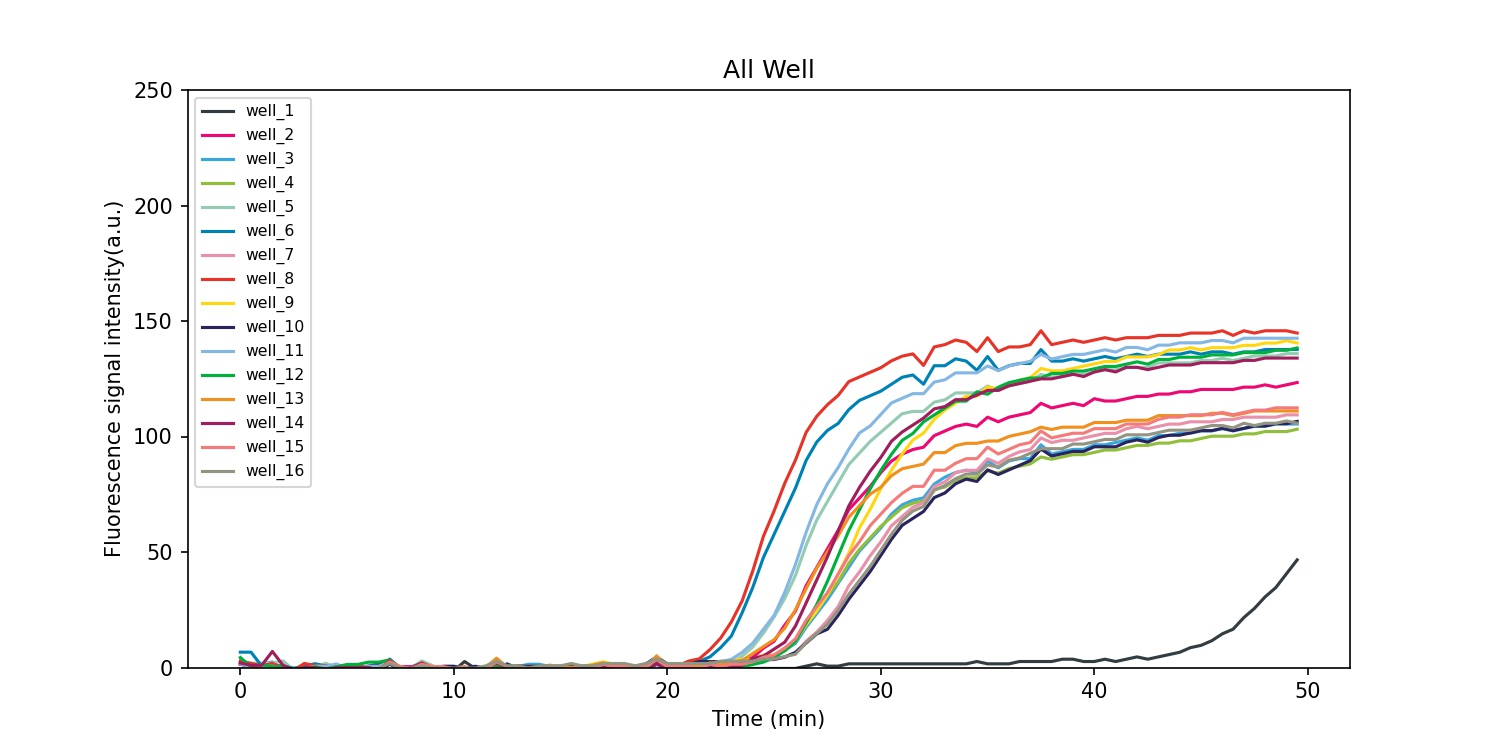
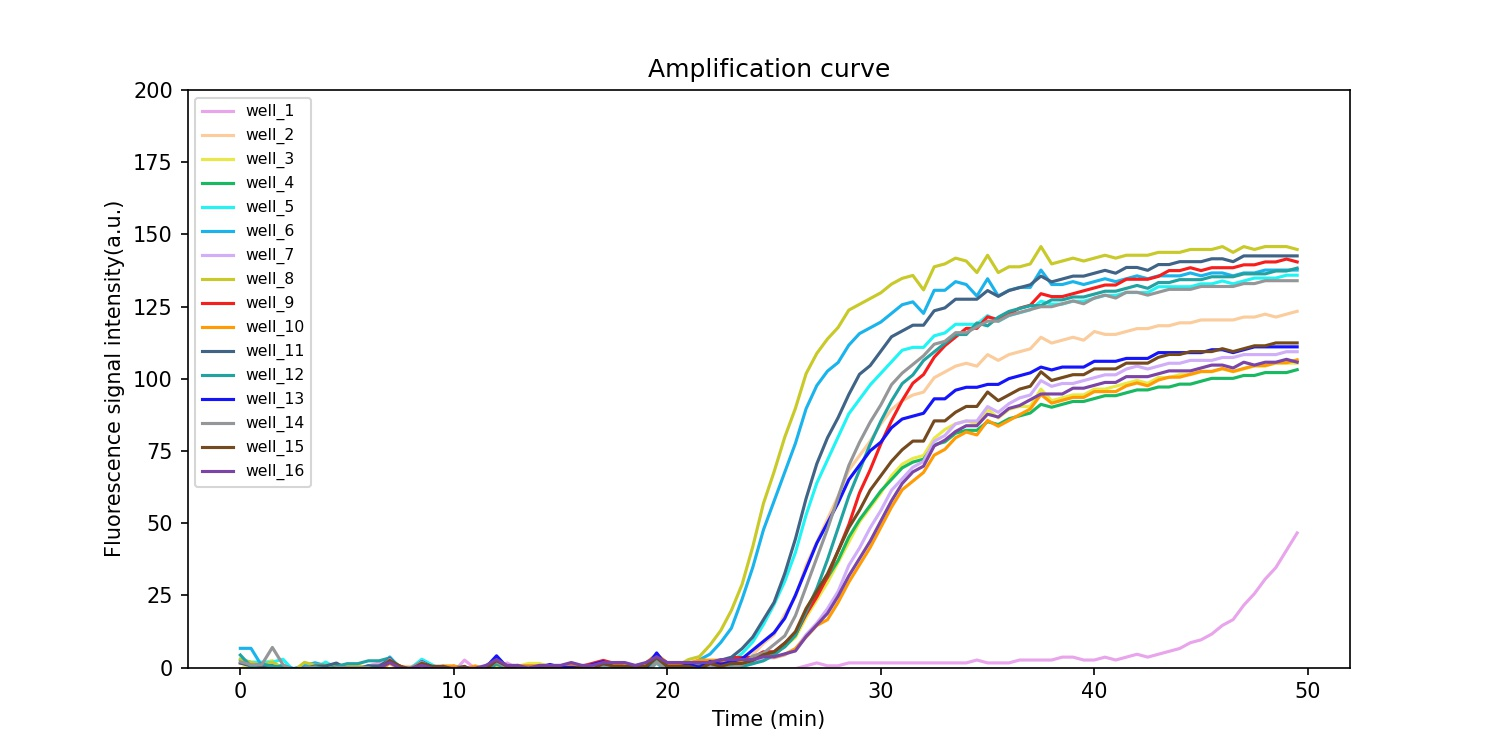
update result

diff --git a/EGGI_Temperature/CT_Value/CT_Display1221.py b/EGGI_Temperature/CT_Value/CT_Display1221.py
@@ -1,21 +1,22 @@
-from PyQt5.QtWidgets import QFileDialog ,QApplication #QDialog
-# from PyQt5.QtCore import *
-# from PyQt5 import QtCore, QtGui, QtWidgets
+from PyQt5.QtWidgets import QDialog,QApplication,QFileDialog
+from PyQt5.QtCore import *
+from PyQt5 import QtCore, QtGui, QtWidgets
 import pandas as pd
 import matplotlib.pyplot as plt
+import time
 import datetime
-from datetime import datetime#, timedelta
-# from PyQt5.QtGui import QImage, QPixmap
+from datetime import datetime, timedelta
+from PyQt5.QtGui import QImage, QPixmap
 from PyQt5.QtWidgets import QMainWindow, QApplication, QGraphicsScene, QGraphicsPixmapItem
-# from PyQt5 import QtCore, QtGui, QtWidgets
+from PyQt5 import QtCore, QtGui, QtWidgets
 now_output_time = str(datetime.now().strftime('%Y-%m-%d %H-%M-%S'))
 import os
 from PyQt5 import QtCore, QtGui, QtWidgets
 
-colorTab_More4 = ['#333c41', '#eb0973', '#39a6dd', '#91be3e',
-                       '#96cbb3', '#0081b4', '#e990ab', '#e5352b',
-                       '#ffd616', '#29245c', '#85b7e2', '#00af3e',
-                       '#ef9020', '#9f1f5c', '#f47b7b', '#949483']
+colorTab_More4 = ['#e8a5eb', '#facc9e', '#e8e948', '#1bb763',
+                       '#25f2f3', '#1db3ea', '#d1aef8', '#c8c92c',
+                       '#f32020', '#fd9b09', '#406386', '#24a1a1',
+                       '#1515f8', '#959697', '#744a20', '#7b45a5']
 
 class Ui_MainWindow(QtWidgets.QWidget):
     def browsefile(self):
@@ -136,8 +137,8 @@ class Ui_MainWindow(QtWidgets.QWidget):
         plt.plot(self.time_array,self.well_14_data, '-', color= colorTab_More4[13], label="well_14")  # 靛
         plt.plot(self.time_array,self.well_15_data, '-', color= colorTab_More4[14], label="well_15")  # 紫
         plt.plot(self.time_array,self.well_16_data, '-', color= colorTab_More4[15], label="well_16")  # 黑
-        plt.ylim(0, 250)
-        plt.title("All Well")
+        plt.ylim(0, 200)
+        plt.title("Amplification curve")
         plt.xlabel('Time (min)')  # x軸說明文字
         plt.ylabel('Fluorescence signal intensity(a.u.)')  # y軸說明文字
         plt.legend(loc="best", fontsize=7.5)
@@ -186,6 +187,9 @@ class Ui_MainWindow(QtWidgets.QWidget):
         for i in range(0, 16):
             df_current_well = self.df_normalization[f'well_{i + 1}']
             df_accumulation = self.df_normalization['accumulation']
+            # print("\n")
+            # print(df_current_well)
+            # print(f"Threshold value: {threshold_value[i]}")
             try:
                 for j, row in enumerate(df_current_well):
                     if row >= threshold_value[i]:
@@ -204,7 +208,7 @@ class Ui_MainWindow(QtWidgets.QWidget):
                         x = (x2 - x1) * (y - y1) / (y2 - y1) + x1
 
                         Ct_value.append(round(x, 2))
-                        # print(f"Ct of well_{i + 1} is {round(x, 2)}")
+                        print(f"Ct of well_{i + 1} is {round(x, 2)}")
                         break
 
                     # if there is no Ct_value availible
@@ -224,6 +228,23 @@ class Ui_MainWindow(QtWidgets.QWidget):
 
     def clean_log(self):
         self.Input_file.setText("")
+        self.lineEdit_well_1.setText("")
+        self.lineEdit_well_2.setText("")
+        self.lineEdit_well_3.setText("")
+        self.lineEdit_well_4.setText("")
+        self.lineEdit_well_5.setText("")
+        self.lineEdit_well_6.setText("")
+        self.lineEdit_well_7.setText("")
+        self.lineEdit_well_8.setText("")
+        self.lineEdit_well_9.setText("")
+        self.lineEdit_well_10.setText("")
+        self.lineEdit_well_11.setText("")
+        self.lineEdit_well_12.setText("")
+        self.lineEdit_well_13.setText("")
+        self.lineEdit_well_14.setText("")
+        self.lineEdit_well_15.setText("")
+        self.lineEdit_well_16.setText("")
+
 
     def setupUi(self, MainWindow):
         MainWindow.setObjectName("MainWindow")

diff --git a/EGGI_Temperature/CT_Value/CT_Display1220.py b/EGGI_Temperature/CT_Value/CT_Display1220.py
@@ -228,6 +228,23 @@ class Ui_MainWindow(QtWidgets.QWidget):
 
     def clean_log(self):
         self.Input_file.setText("")
+        self.lineEdit_well_1.setText("")
+        self.lineEdit_well_2.setText("")
+        self.lineEdit_well_3.setText("")
+        self.lineEdit_well_4.setText("")
+        self.lineEdit_well_5.setText("")
+        self.lineEdit_well_6.setText("")
+        self.lineEdit_well_7.setText("")
+        self.lineEdit_well_8.setText("")
+        self.lineEdit_well_9.setText("")
+        self.lineEdit_well_10.setText("")
+        self.lineEdit_well_11.setText("")
+        self.lineEdit_well_12.setText("")
+        self.lineEdit_well_13.setText("")
+        self.lineEdit_well_14.setText("")
+        self.lineEdit_well_15.setText("")
+        self.lineEdit_well_16.setText("")
+
 
     def setupUi(self, MainWindow):
         MainWindow.setObjectName("MainWindow")
